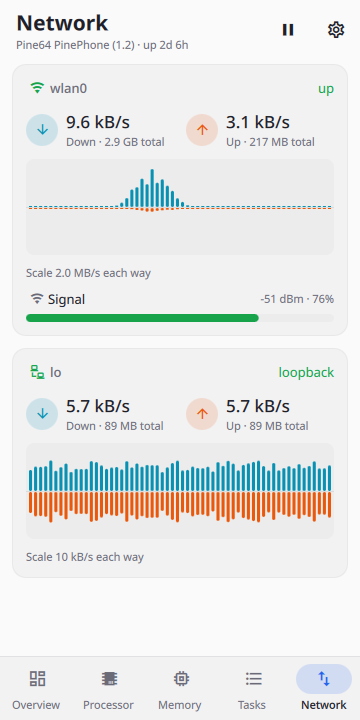
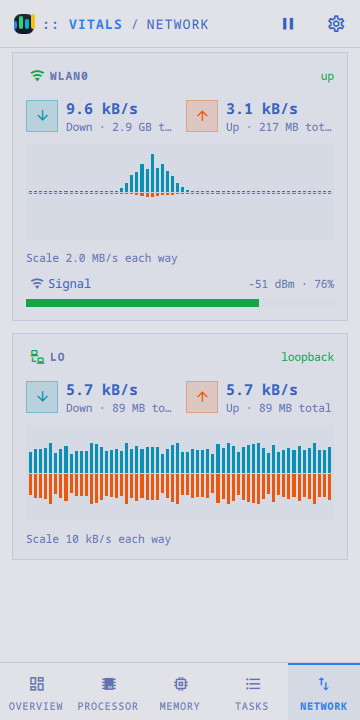
Vitals in Omarchy's look: square, lined, in capitals
The meters, bars and core strips are square where the theme is, the
network arrows sit in lined boxes, the battery tiles carry a line and a
capital label, and the task table's column heads and the detail pane's
Processes are small capitals. Graph gridlines stay the fainter divider;
everything that edges a box is the kit's line.

diff --git a/apps/vitals/TasksView.qml b/apps/vitals/TasksView.qml
@@ -105,7 +105,7 @@ Item {
         spacing: 6
         Chip { app: root.app; text: "Apps"; glyph: G.app; selected: root.mode === "apps"; onClicked: root.app.store.set("taskMode", "apps") }
         Chip { app: root.app; text: "All"; glyph: G.tree; selected: root.mode === "all"; onClicked: root.app.store.set("taskMode", "all") }
-        Rectangle { width: 1; height: root.app.ui.chip - 10; anchors.verticalCenter: parent.verticalCenter; color: root.app.ui.divider }
+        Rectangle { width: 1; height: root.app.ui.chip - 10; anchors.verticalCenter: parent.verticalCenter; color: root.app.ui.line }
         Repeater {
           model: [
             { key: "cpu", label: root.app.compact ? "CPU" : "Processor" },
@@ -150,7 +150,9 @@ Item {
         color: root.sort === "name" ? root.app.ui.text : root.app.ui.muted
         font.family: root.app.ui.font
         font.pixelSize: root.app.ui.fs.xs
-        font.weight: Font.DemiBold
+        font.weight: Font.Bold
+        font.capitalization: Font.AllUppercase
+        font.letterSpacing: root.app.ui.tracking
         MouseArea { anchors.fill: parent; cursorShape: Qt.PointingHandCursor; onClicked: root.app.store.set("taskSort", "name") }
       }
       Row {
@@ -172,7 +174,9 @@ Item {
             color: root.sort === modelData.key ? root.app.ui.text : root.app.ui.muted
             font.family: root.app.ui.font
             font.pixelSize: root.app.ui.fs.xs
-            font.weight: Font.DemiBold
+            font.weight: Font.Bold
+            font.capitalization: Font.AllUppercase
+            font.letterSpacing: root.app.ui.tracking
             MouseArea {
               anchors.fill: parent
               enabled: modelData.key !== ""
@@ -182,7 +186,7 @@ Item {
           }
         }
       }
-      Rectangle { anchors.bottom: parent.bottom; width: parent.width; height: 1; color: root.app.ui.divider }
+      Rectangle { anchors.bottom: parent.bottom; width: parent.width; height: 1; color: root.app.ui.line }
     }
 
     ListView {
@@ -243,7 +247,7 @@ Item {
     anchors.right: parent.right
     width: visible ? Math.min(420, Math.max(340, parent.width * 0.38)) : 0
     color: root.app.ui.surface
-    Rectangle { width: 1; height: parent.height; color: root.app.ui.divider }
+    Rectangle { width: 1; height: parent.height; color: root.app.ui.line }
 
     DetailView {
       anchors.fill: parent

diff --git a/apps/vitals/DetailView.qml b/apps/vitals/DetailView.qml
@@ -225,7 +225,7 @@ Item {
             height: 44
             color: factMouse.pressed ? root.app.ui.pressed : factMouse.containsMouse && link ? root.app.ui.hover : "transparent"
             radius: root.app.ui.radius
-            Rectangle { anchors.bottom: parent.bottom; width: parent.width; height: 1; color: root.app.ui.divider }
+            Rectangle { anchors.bottom: parent.bottom; width: parent.width; height: 1; color: root.app.ui.line }
             Text {
               x: 4
               anchors.verticalCenter: parent.verticalCenter
@@ -307,8 +307,10 @@ Item {
           text: "Processes"
           color: root.app.ui.muted
           font.family: root.app.ui.font
-          font.pixelSize: root.app.ui.fs.sm
-          font.weight: Font.DemiBold
+          font.pixelSize: root.app.ui.fs.xs
+          font.weight: Font.Bold
+          font.capitalization: Font.AllUppercase
+          font.letterSpacing: root.app.ui.tracking
           bottomPadding: 6
         }
         Repeater {

diff --git a/apps/vitals/TaskRow.qml b/apps/vitals/TaskRow.qml
@@ -68,7 +68,7 @@ Rectangle {
       color: root.quiet ? root.app.ui.muted : root.app.ui.text
       font.family: root.app.ui.font
       font.pixelSize: root.app.ui.fs.md
-      font.weight: Font.DemiBold
+      font.weight: Font.Bold
       elide: Text.ElideRight
     }
     Text {
@@ -93,7 +93,7 @@ Rectangle {
     color: root.figure === "cpu" ? root.app.loadColor(root.item.cpu || 0) : root.app.ui.text
     font.family: root.app.ui.font
     font.pixelSize: root.app.ui.fs.md
-    font.weight: Font.DemiBold
+    font.weight: Font.Bold
     font.features: ({ "tnum": 1 })
   }
 
@@ -116,7 +116,7 @@ Rectangle {
         color: root.app.loadColor(root.item.cpu || 0)
         font.family: root.app.ui.font
         font.pixelSize: root.app.ui.fs.md
-        font.weight: Font.DemiBold
+        font.weight: Font.Bold
         font.features: ({ "tnum": 1 })
       }
       Meter {

diff --git a/apps/vitals/Stat.qml b/apps/vitals/Stat.qml
@@ -15,6 +15,8 @@ Rectangle {
   implicitHeight: col.implicitHeight + 22
   radius: app.ui.radius
   color: app.ui.well
+  border.width: 1
+  border.color: app.ui.line
 
   Column {
     id: col
@@ -41,6 +43,8 @@ Rectangle {
         color: root.app.ui.muted
         font.family: root.app.ui.font
         font.pixelSize: root.app.ui.fs.xs
+        font.capitalization: Font.AllUppercase
+        font.letterSpacing: root.app.ui.tracking
         elide: Text.ElideRight
       }
     }
@@ -50,7 +54,7 @@ Rectangle {
       color: root.valueColor
       font.family: root.app.ui.font
       font.pixelSize: root.app.ui.fs.lg
-      font.weight: Font.DemiBold
+      font.weight: Font.Bold
       font.features: ({ "tnum": 1 })
       elide: Text.ElideRight
     }

diff --git a/apps/vitals/Meter.qml b/apps/vitals/Meter.qml
@@ -12,7 +12,7 @@ Rectangle {
   property color extraColor: app.alpha(fill, 0.35)
 
   implicitHeight: 10
-  radius: height / 2
+  radius: root.app.ui.round(height)
   color: app.ui.well
   clip: true
 
@@ -20,14 +20,14 @@ Rectangle {
     x: 0
     height: parent.height
     width: Math.min(parent.width, parent.width * Math.max(0, Math.min(1, root.value + root.extra)))
-    radius: height / 2
+    radius: root.app.ui.round(height)
     color: root.extraColor
     visible: root.extra > 0
   }
   Rectangle {
     height: parent.height
     width: root.value > 0 ? Math.max(parent.height, parent.width * Math.max(0, Math.min(1, root.value))) : 0
-    radius: height / 2
+    radius: root.app.ui.round(height)
     color: root.fill
   }
 }

diff --git a/apps/vitals/MirrorBars.qml b/apps/vitals/MirrorBars.qml
@@ -47,7 +47,7 @@ Item {
           y: parent.half - height
           width: parent.width
           height: parent.has ? Math.max(1, parent.half * parent.d) : 1
-          radius: Math.min(2, width / 2)
+          radius: Math.min(2, width / 2, root.app.ui.radius)
           color: root.downColor
           opacity: parent.has ? 1 : 0.25
         }
@@ -55,7 +55,7 @@ Item {
           y: parent.half + 1
           width: parent.width
           height: parent.has ? Math.max(1, parent.half * parent.u) : 1
-          radius: Math.min(2, width / 2)
+          radius: Math.min(2, width / 2, root.app.ui.radius)
           color: root.upColor
           opacity: parent.has ? 1 : 0.25
         }

diff --git a/apps/vitals/Rate.qml b/apps/vitals/Rate.qml
@@ -16,9 +16,11 @@ Row {
   Rectangle {
     width: 32
     height: 32
-    radius: 16
+    radius: root.app.ui.radius
     anchors.verticalCenter: parent.verticalCenter
     color: root.app.alpha(root.color, 0.16)
+    border.width: 1
+    border.color: root.app.alpha(root.color, 0.45)
     Icon {
       anchors.centerIn: parent
       app: root.app
@@ -36,7 +38,7 @@ Row {
       color: root.app.ui.text
       font.family: root.app.ui.font
       font.pixelSize: root.app.ui.fs.lg
-      font.weight: Font.DemiBold
+      font.weight: Font.Bold
       font.features: ({ "tnum": 1 })
       elide: Text.ElideRight
     }

diff --git a/apps/vitals/MemoryView.qml b/apps/vitals/MemoryView.qml
@@ -61,7 +61,7 @@ Item {
           delegate: Row {
             required property var modelData
             spacing: 6
-            Rectangle { width: 10; height: 10; radius: 5; color: modelData.color; anchors.verticalCenter: parent.verticalCenter }
+            Rectangle { width: 10; height: 10; radius: root.app.ui.round(10); color: modelData.color; anchors.verticalCenter: parent.verticalCenter }
             Text {
               text: modelData.label
               color: root.app.ui.muted

diff --git a/apps/vitals/Bars.qml b/apps/vitals/Bars.qml
@@ -57,7 +57,7 @@ Item {
           anchors.bottom: parent.bottom
           width: parent.width
           height: parent.has ? Math.max(2, parent.height * parent.value) : 2
-          radius: Math.min(2, width / 2)
+          radius: Math.min(2, width / 2, root.app.ui.radius)
           color: root.load ? root.app.loadColor(parent.value) : root.color
           opacity: parent.has ? 1 : 0.25
         }

diff --git a/apps/vitals/CoreBars.qml b/apps/vitals/CoreBars.qml
@@ -27,7 +27,7 @@ Item {
         required property var modelData
         width: (root.width - (root.cores.length - 1) * strip.spacing) / Math.max(1, root.cores.length)
         height: root.height
-        radius: Math.min(4, width / 2)
+        radius: Math.min(root.app.ui.radius, width / 2)
         color: root.app.ui.well
         Rectangle {
           anchors.bottom: parent.bottom

diff --git a/apps/vitals/Panel.qml b/apps/vitals/Panel.qml
@@ -135,7 +135,7 @@ App {
               color: root.ui.text
               font.family: root.ui.font
               font.pixelSize: root.ui.fs.xs
-              font.weight: Font.DemiBold
+              font.weight: Font.Bold
               font.features: ({ "tnum": 1 })
             }
           }

diff --git a/apps/vitals/Figure.qml b/apps/vitals/Figure.qml
@@ -63,7 +63,7 @@ Item {
       color: root.sideColor
       font.family: root.app.ui.font
       font.pixelSize: root.app.ui.fs.lg
-      font.weight: Font.DemiBold
+      font.weight: Font.Bold
       font.features: ({ "tnum": 1 })
     }
   }
